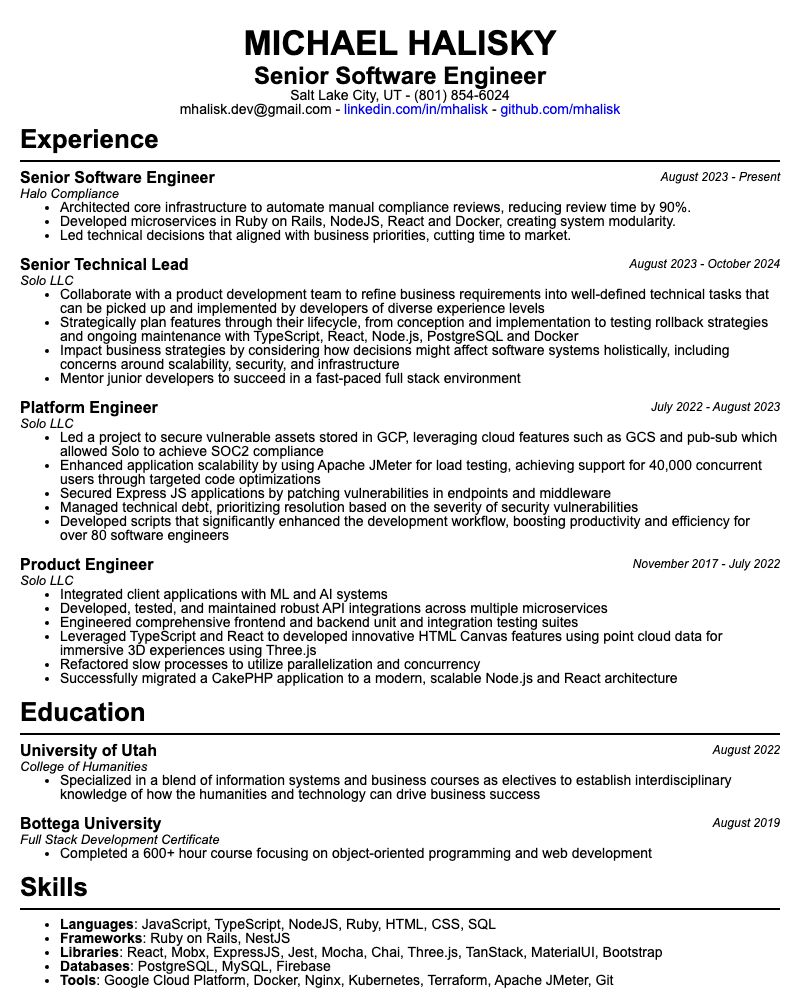
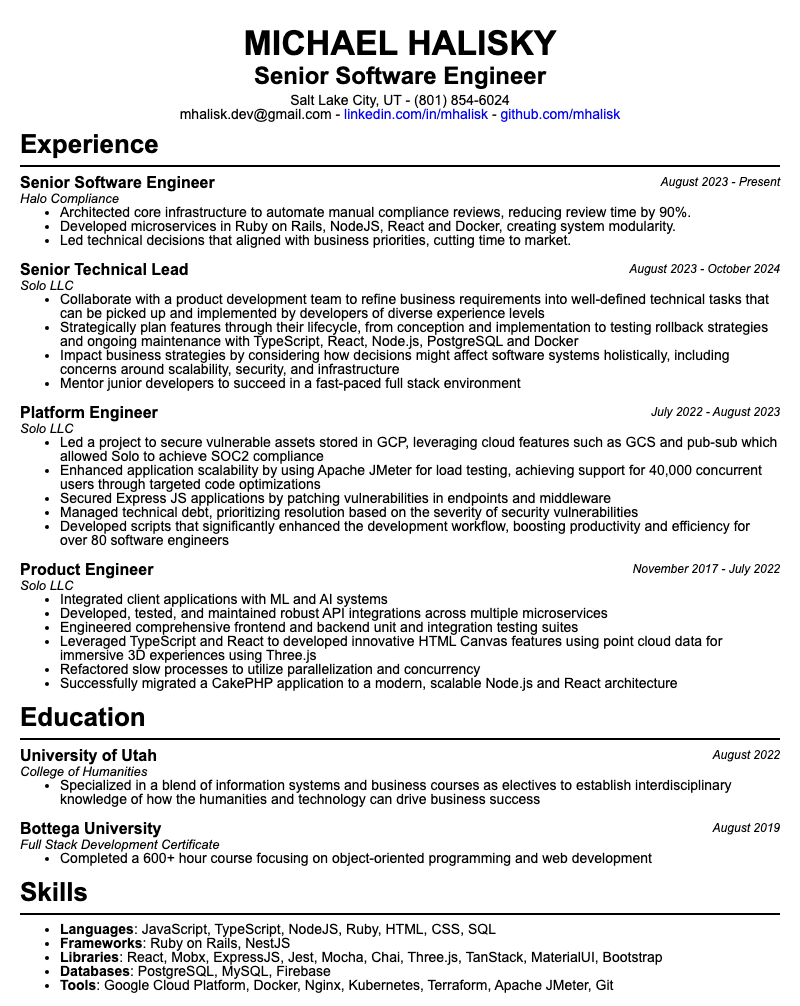
chore: fixed a spacing issue

diff --git a/resume/styles/resume-template-1.css b/resume/styles/resume-template-1.css
@@ -51,6 +51,10 @@ strong {
     font-weight: bold;
 }
 
+.main-header-content {
+    margin-top: 5px;
+}
+
 .section-header {
     display: flex;
     justify-content: space-between;

diff --git a/resume/resume.md b/resume/resume.md
@@ -4,7 +4,7 @@
    <div> 
       <span class="main-header-title">Senior Software Engineer</span>
    </div>
-   <div> 
+   <div class="main-header-content"> 
       <span>Salt Lake City, UT -</span>
       <span>(801) 854-6024</span>
    </div>
